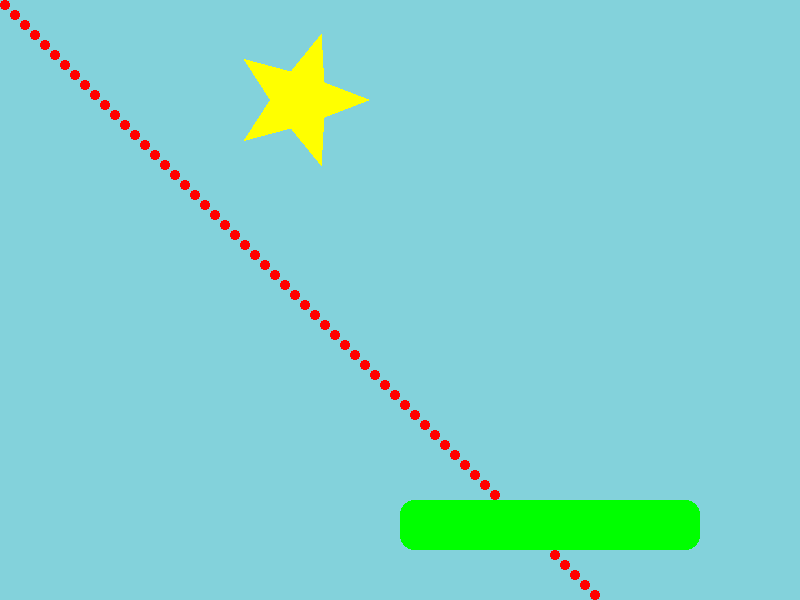
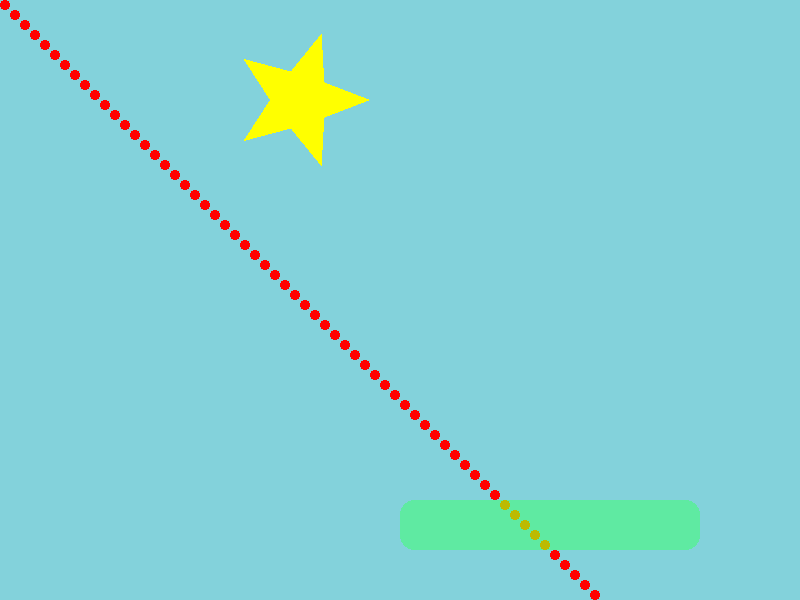
Add alpha example

Changed region(s): [[0.5, 0.81, 0.875, 0.93]]

diff --git a/piet-wgpu/examples/basic-wgpu.rs b/piet-wgpu/examples/basic-wgpu.rs
@@ -83,7 +83,7 @@ async fn run() {
         render_ctx.fill(rect, &red_brush);
     }
 
-    let green_brush = render_ctx.solid_brush(Color::rgb8(0, 255, 0));
+    let green_brush = render_ctx.solid_brush(Color::rgba8(0, 255, 0, 125));
     let rect = piet::kurbo::RoundedRect::new(400.0, 500.0, 700.0, 550.0, 15.0);
     render_ctx.fill(rect, &green_brush);
 
